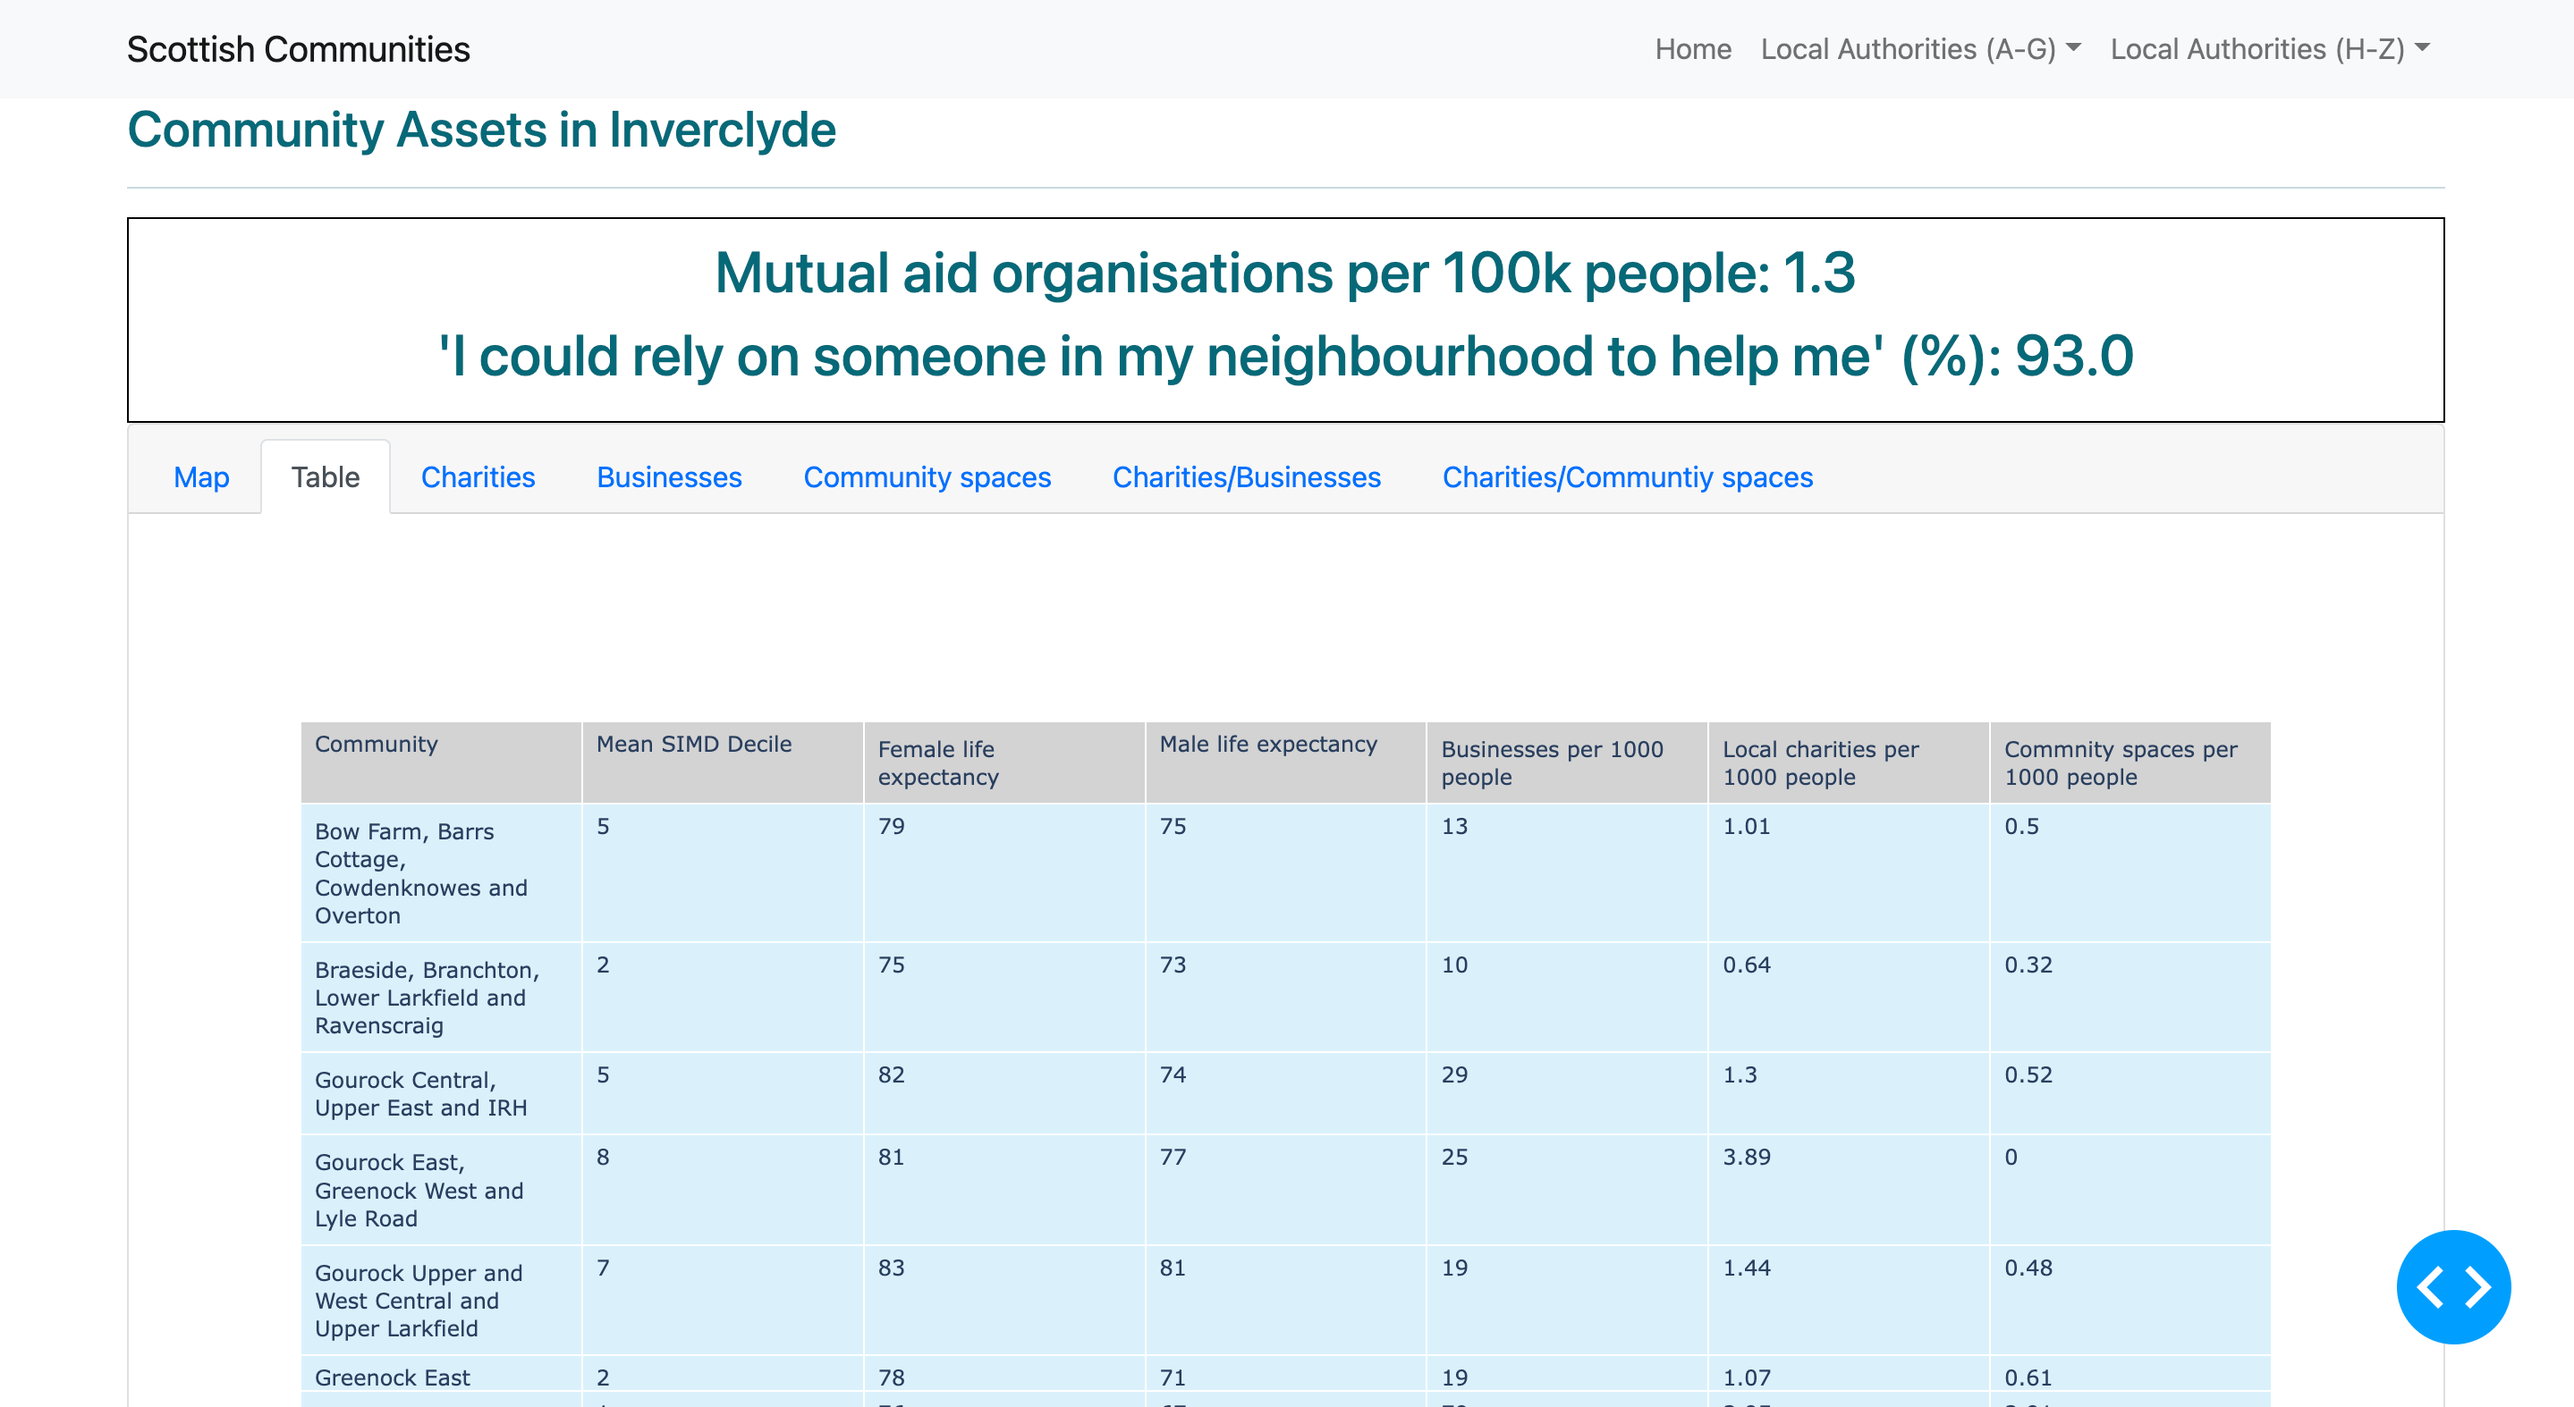
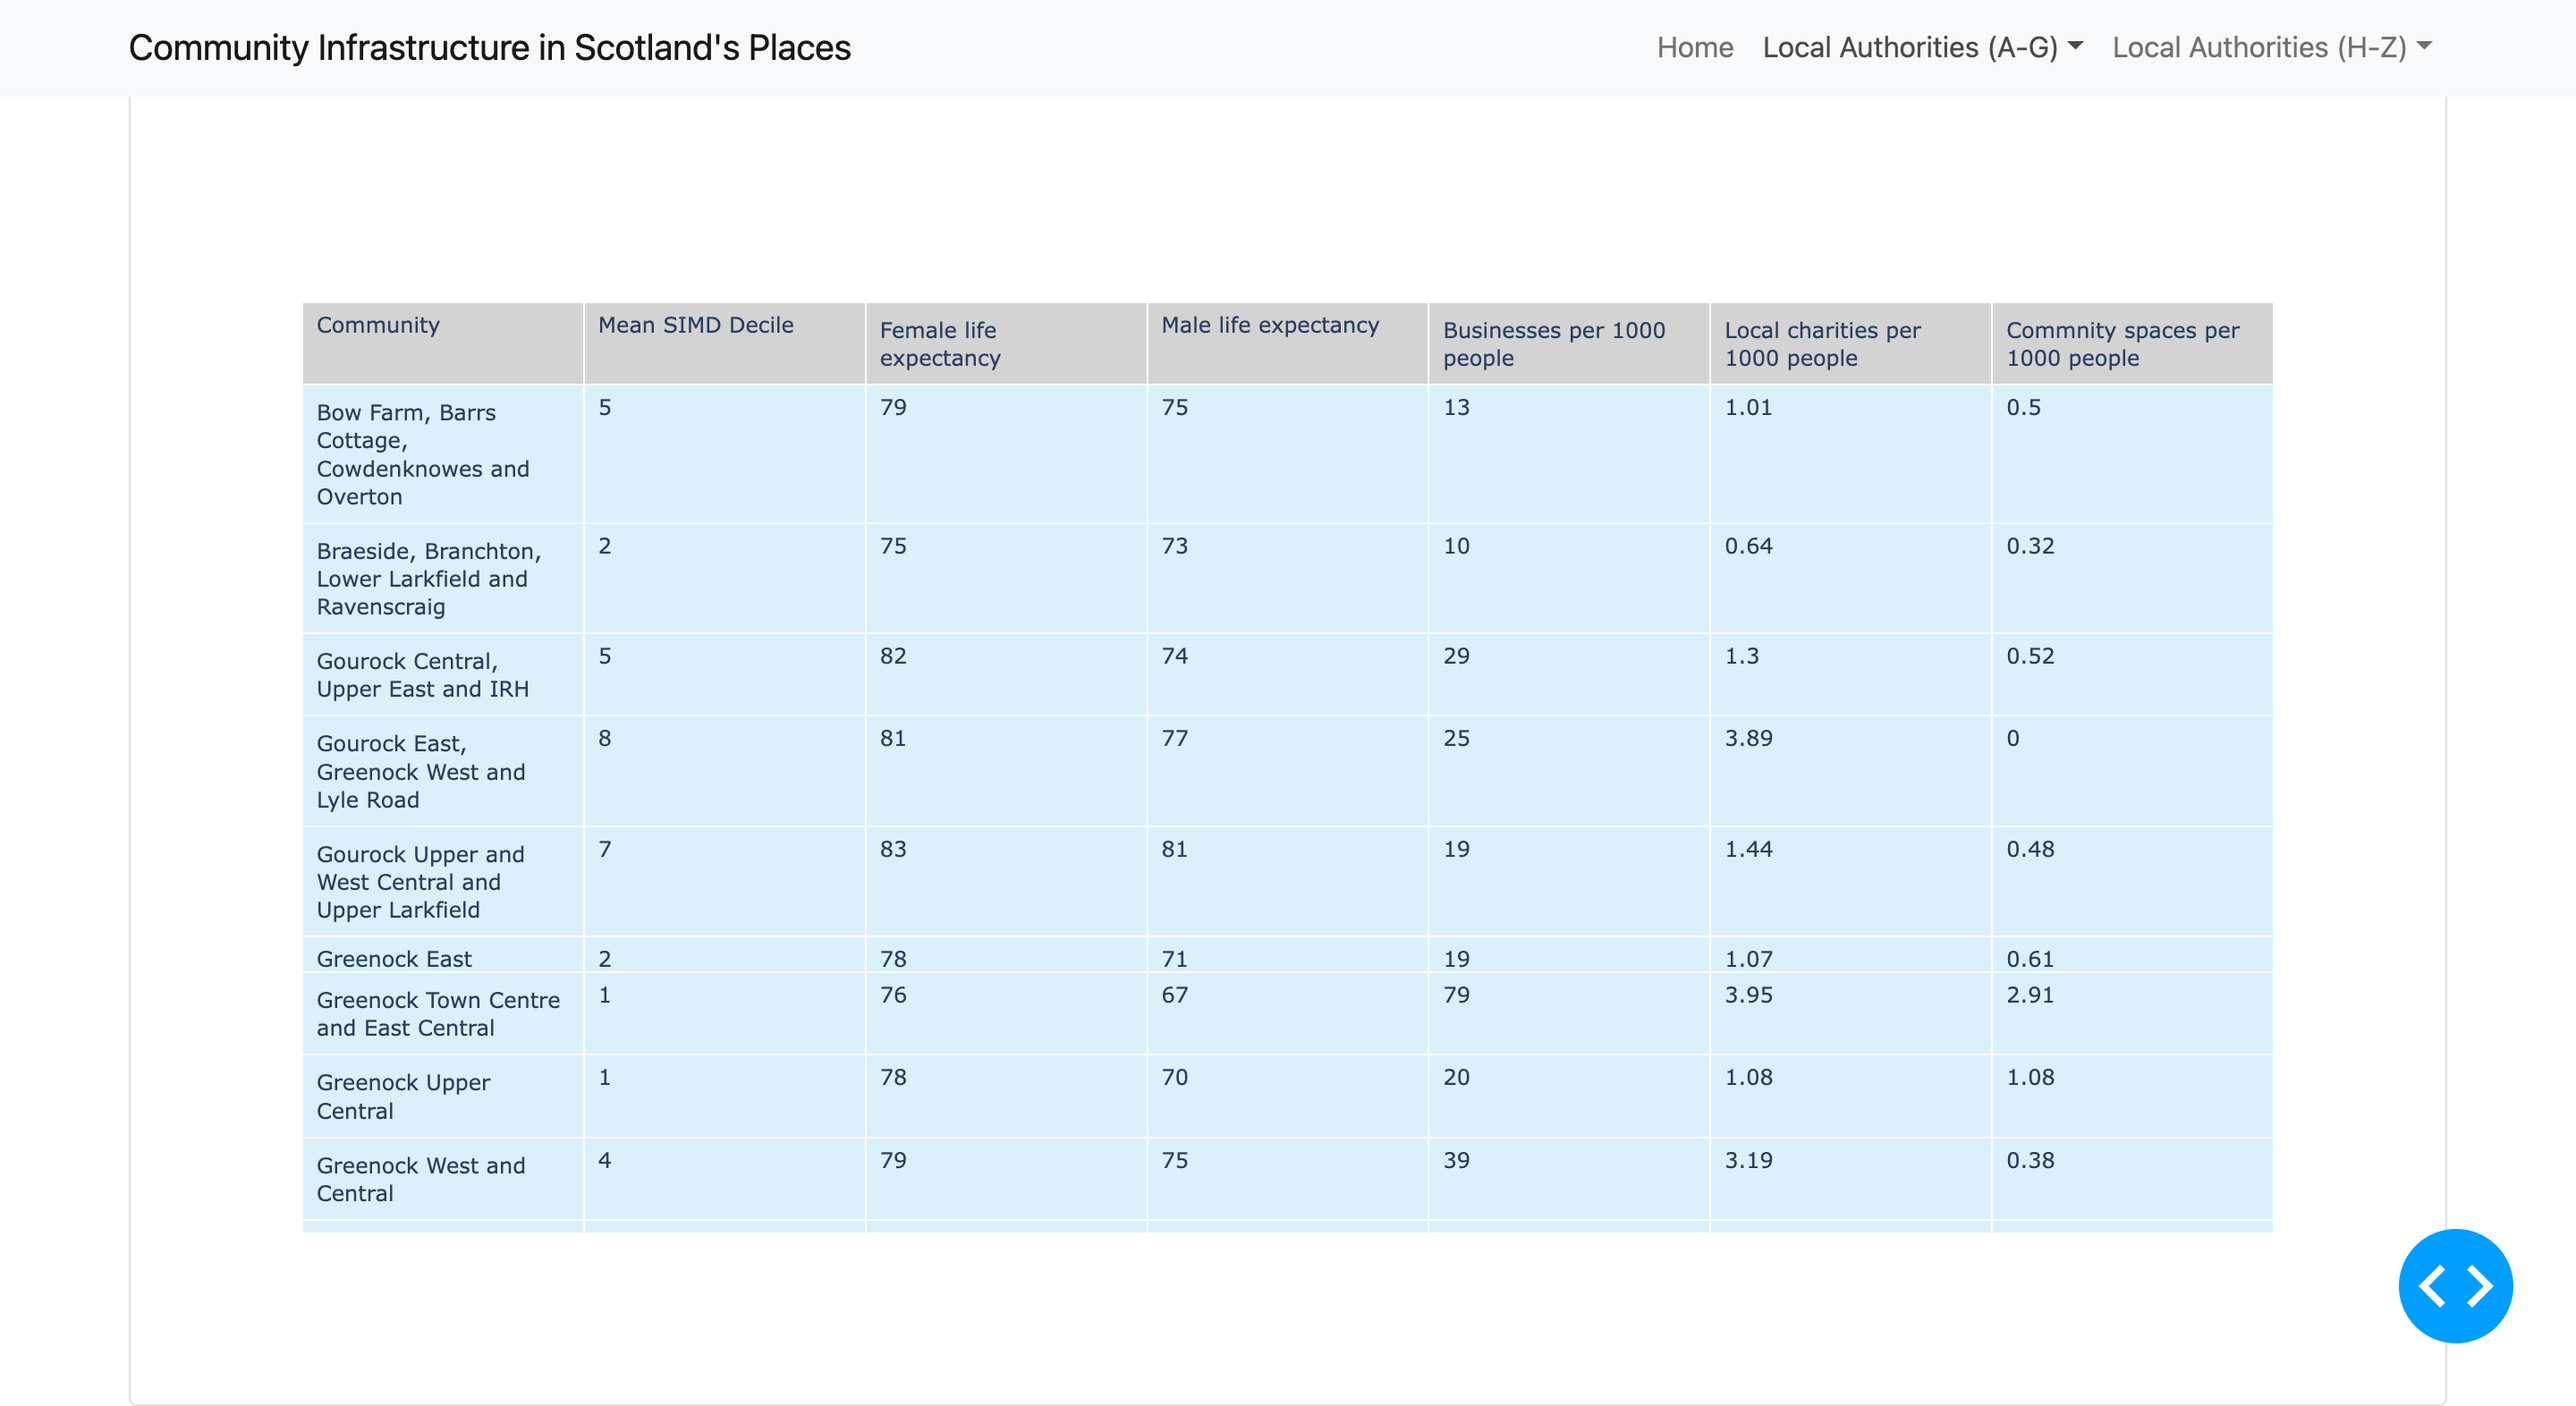
replaces images in readme

diff --git a/apps/summary_page.py b/apps/summary_page.py
@@ -24,7 +24,7 @@ la_info_table = go.Figure(data=[go.Table(
 layout = dbc.Container(
 
     [
-        html.H3("Scottish Communities"),
+        html.H3("Community Infrastructure in Scotland's Places"),
         html.Hr(),
         html.Div(
             children=[
